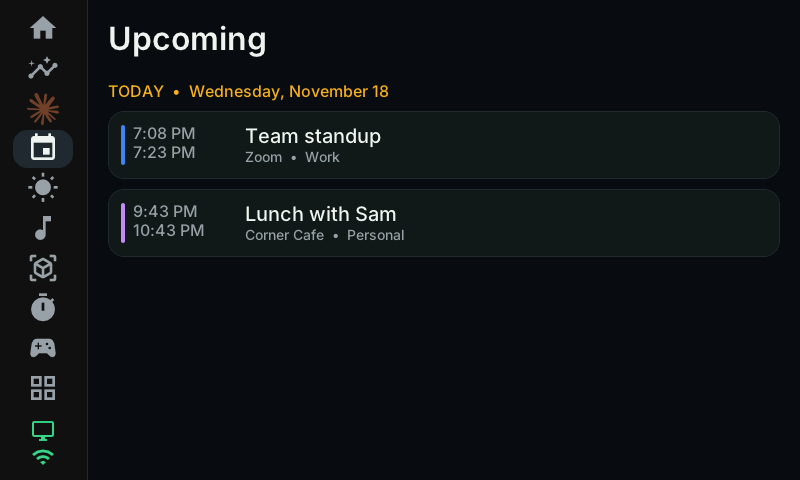
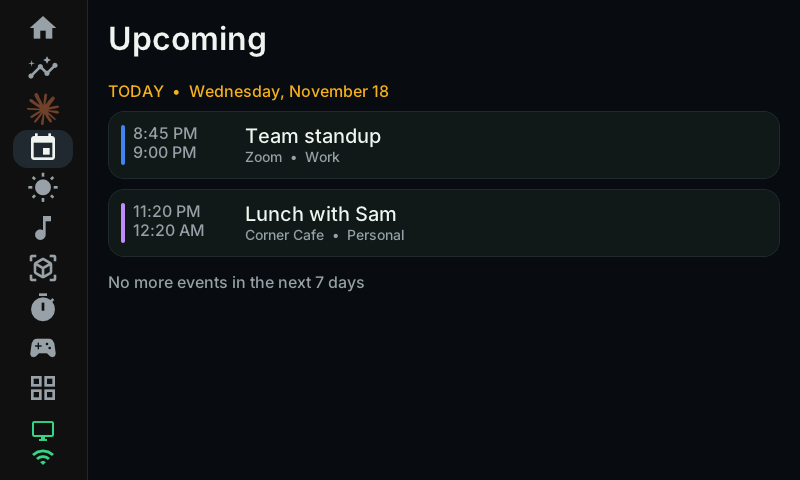
Calendar: end the list with "No more events in the next N days"
Uses the companion's calendar days setting, like the Home widget. The
empty page now says "Nothing scheduled in the next N days". New Calendar
and Home screenshots from the same demo run.

Changed region(s): [[0.125, 0.5625, 0.4688, 0.625], [0.1562, 0.4062, 0.25, 0.5], [0.1562, 0.25, 0.25, 0.3438]]

diff --git a/firmware/main/ui_calendar.c b/firmware/main/ui_calendar.c
@@ -141,6 +141,19 @@ void calendar_refresh(bool force)
         add_event(e, now);
         shown++;
     }
+    char span[24], msg[64];
+    if (g_event_days == 1) snprintf(span, sizeof(span), "the next day");
+    else snprintf(span, sizeof(span), "the next %d days", g_event_days);
+    if (shown) {
+        // Closes the list, so a short one doesn't just stop above empty space.
+        snprintf(msg, sizeof(msg), "No more events in %s", span);
+        lv_obj_t *end = ui_label(s_list, g_font_16, COL_MUTED, msg);
+        lv_obj_set_style_pad_top(end, 6, 0);
+    } else {
+        snprintf(msg, sizeof(msg), "Nothing scheduled in %s", span);
+        lv_label_set_text(s_empty, msg);
+        lv_obj_align(s_empty, LV_ALIGN_CENTER, 0, 0);
+    }
     if (shown) {
         lv_obj_add_flag(s_empty, LV_OBJ_FLAG_HIDDEN);
         lv_obj_add_flag(s_empty_sub, LV_OBJ_FLAG_HIDDEN);
